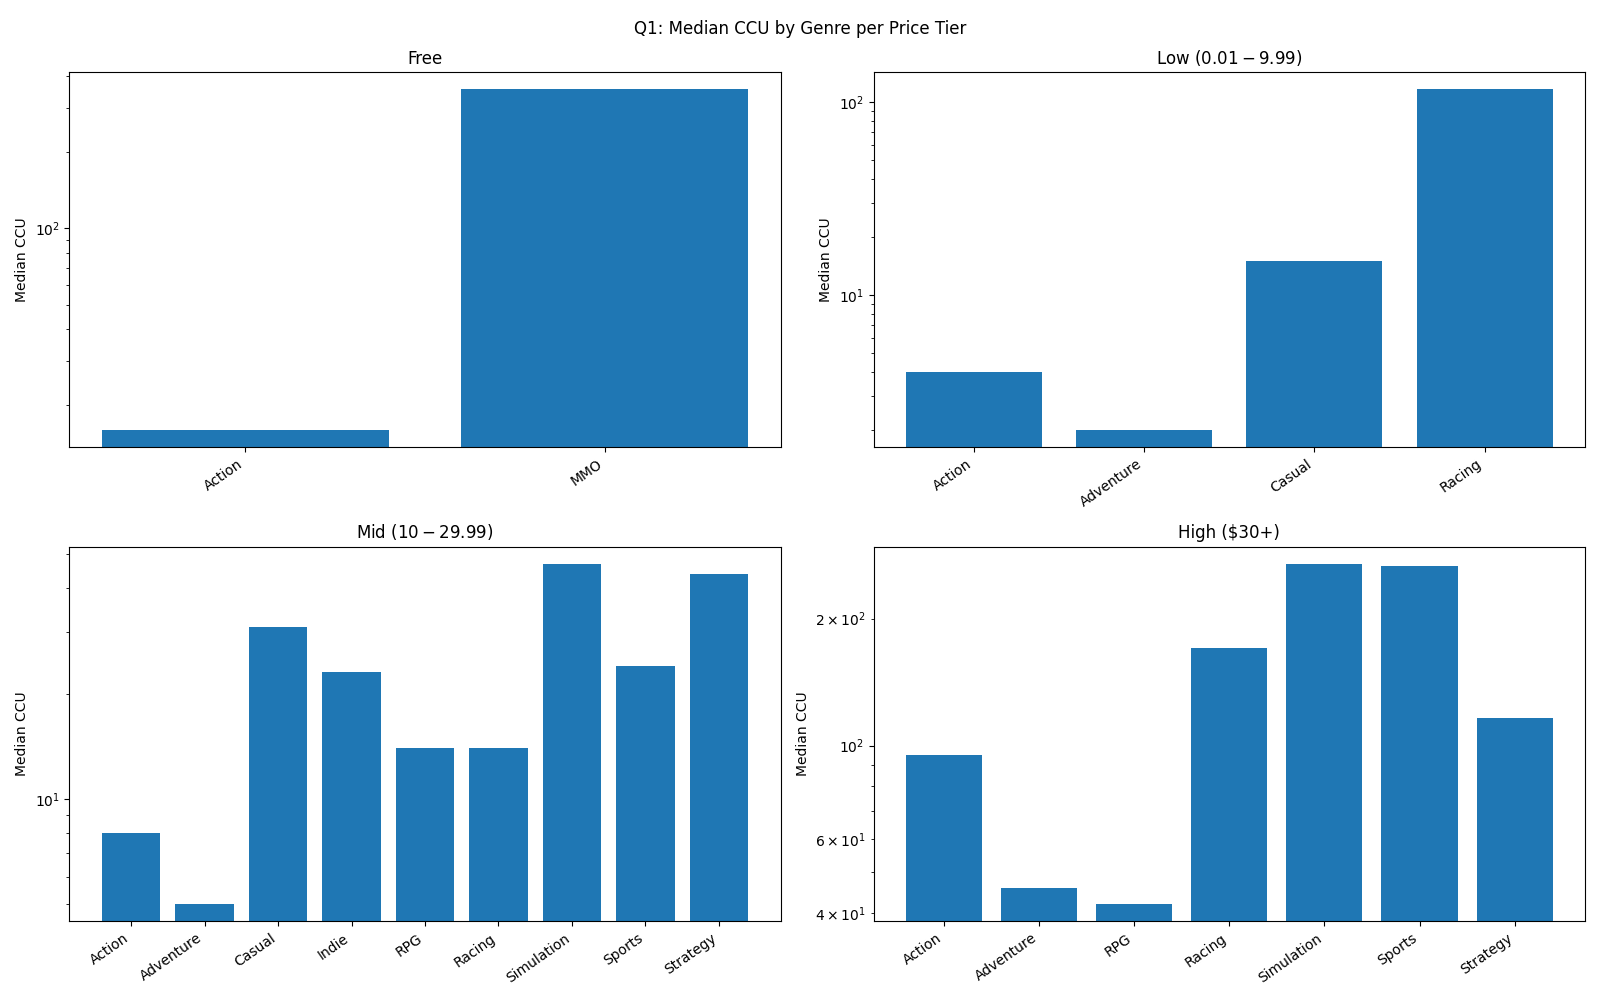
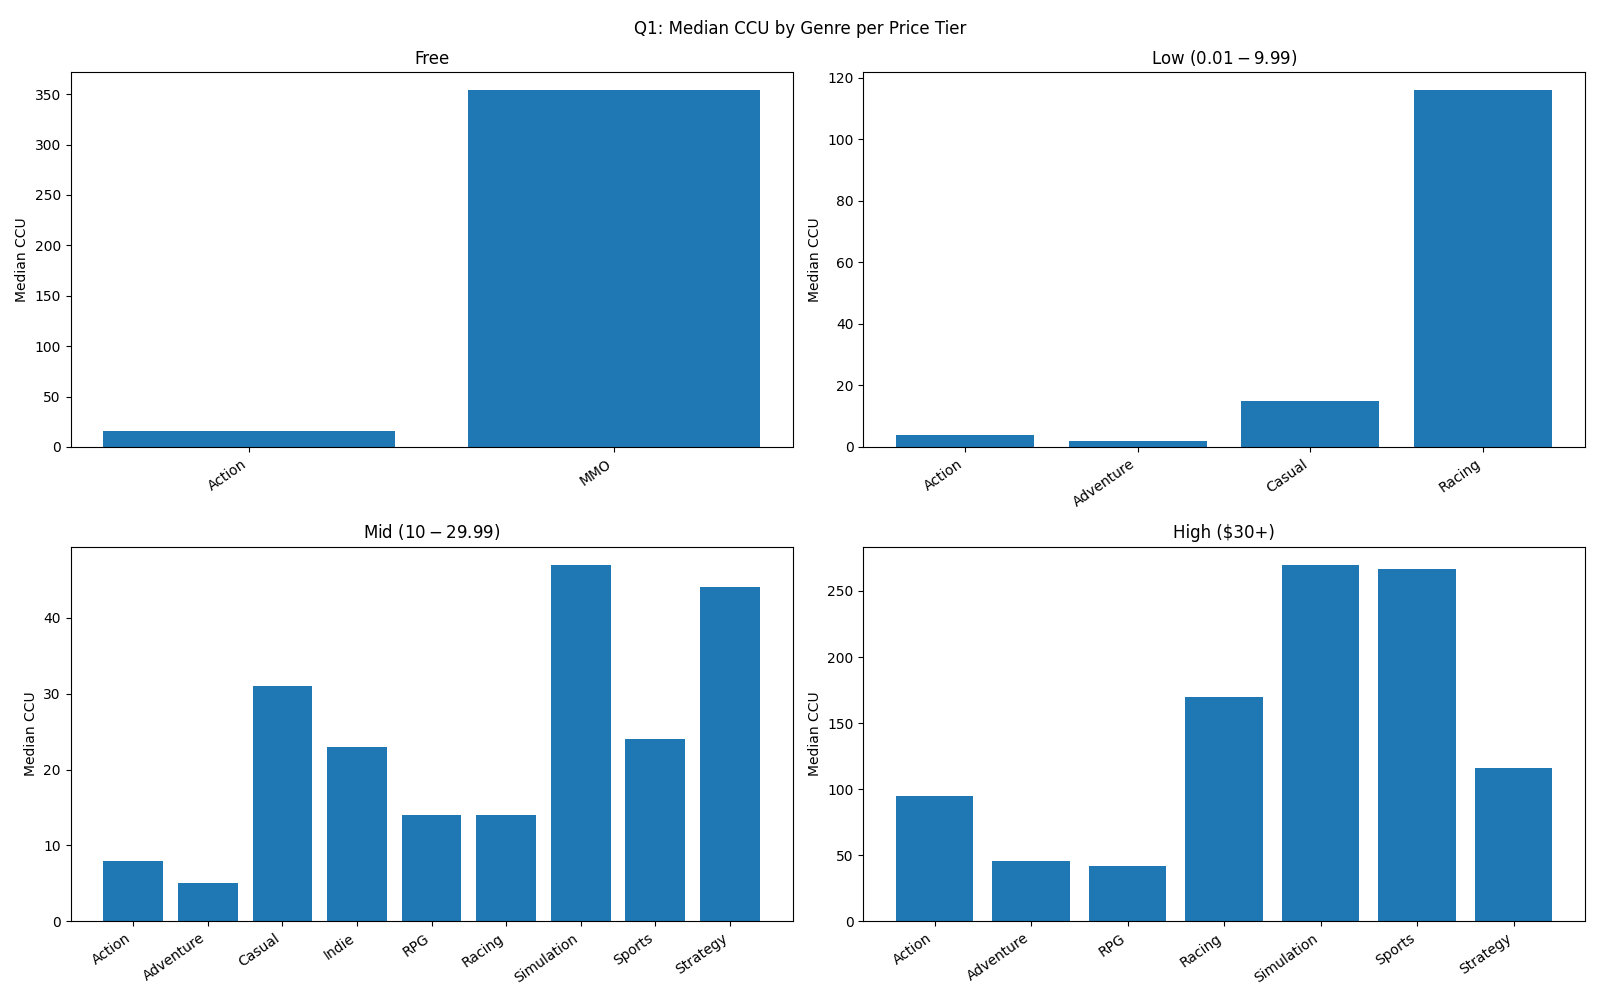
refactor: simplify Q1 matplotlib bar charts to match Q3/Q4 style

diff --git a/scripts/phase_4/q1_price_vs_engagement.py b/scripts/phase_4/q1_price_vs_engagement.py
@@ -123,36 +123,29 @@ def make_q1_plots(df):
     tiers_present = [t for t in tier_order if t in df["price_tier"].unique()]
 
     # One bar chart per price tier: Median CCU by genre
-    plt.figure(figsize=(16, 10))
+    fig, axes = plt.subplots(2, 2, figsize=(16, 10))
     for idx, tier in enumerate(tiers_present):
+        ax = axes[idx // 2][idx % 2]
         tier_data = df[df["price_tier"] == tier].sort_values("genre")
-        plt.subplot(2, 2, idx + 1)
-        plt.bar(tier_data["genre"], tier_data["median_ccu"])
-        plt.yscale("log")
-        plt.xticks(rotation=35, ha="right")
-        plt.ylabel("Median CCU")
-        plt.title(f"{tier}")
-    plt.suptitle("Q1: Median CCU by Genre per Price Tier")
+        ax.bar(tier_data["genre"], tier_data["median_ccu"])
+        ax.set_xticks(range(len(tier_data["genre"])))
+        ax.set_xticklabels(tier_data["genre"], rotation=35, ha="right")
+        ax.set_ylabel("Median CCU")
+        ax.set_title(tier)
+    fig.suptitle("Q1: Median CCU by Genre per Price Tier")
     plt.tight_layout()
     plt.savefig("../../figures/phase_4/q1_price_vs_engagement.png")
     plt.close()
 
-    # Q1b — Playtime by price tier (weighted median/avg)
-    q1b = (
-        df.groupby("price_tier")
-        .apply(
-            lambda d: (d["median_playtime"] * d["game_count"]).sum()
-            / d["game_count"].sum()
-        )
-        .reset_index(name="playtime")
-    )
-    q1b_tiers = [t for t in tier_order if t in q1b["price_tier"].values]
-    playtimes = [
-        float(q1b[q1b["price_tier"] == t]["playtime"].values[0]) for t in q1b_tiers
-    ]
+    # Q1b — Median playtime by price tier
+    playtimes = []
+    for tier in tiers_present:
+        tier_data = df[df["price_tier"] == tier]
+        weighted = (tier_data["median_playtime"] * tier_data["game_count"]).sum()
+        playtimes.append(weighted / tier_data["game_count"].sum())
 
     plt.figure(figsize=(8, 5))
-    plt.bar(q1b_tiers, playtimes)
+    plt.bar(tiers_present, playtimes)
     plt.ylabel("Weighted Median Avg Playtime (minutes)")
     plt.title("Q1b: Average Playtime by Price Tier")
     plt.tight_layout()
